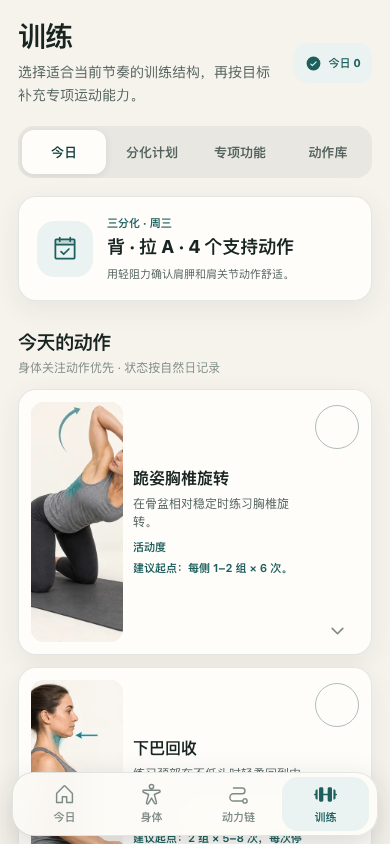
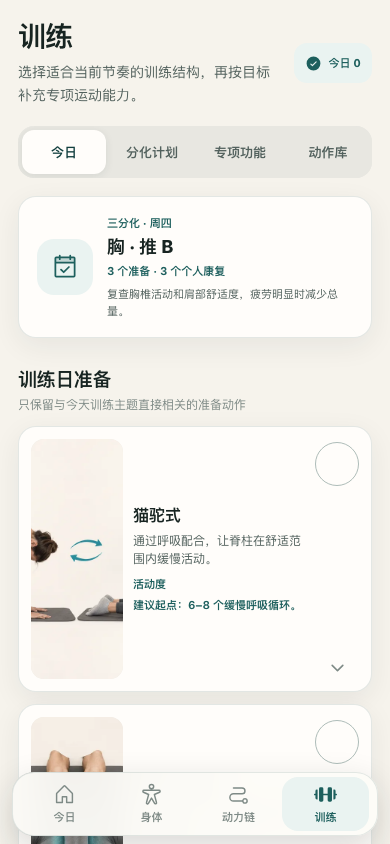
fix: separate training prep from rehab tasks

diff --git a/src/pages/training/training.vue b/src/pages/training/training.vue
@@ -18,7 +18,8 @@
           <view class="summary-icon"><PhCalendarCheck :size="28" weight="duotone" /></view>
           <view class="summary-copy">
             <text class="summary-kicker">{{ selectedSplit.shortName }} · {{ todayDay.day }}</text>
-            <text class="summary-title">{{ todayDay.focus }} · {{ todayExercises.length }} 个支持动作</text>
+            <text class="summary-title">{{ todayDay.focus }}</text>
+            <text class="summary-count">{{ todayActionSummary }}</text>
             <text class="summary-note">{{ todayDay.target }}</text>
           </view>
         </view>
@@ -29,15 +30,27 @@
         </view>
 
         <template v-if="todayDay && !todayDay.isRest">
-          <view class="section-heading"><view><text class="section-title">今天的动作</text><text class="section-note">身体关注动作优先 · 状态按自然日记录</text></view></view>
+          <view class="section-heading"><view><text class="section-title">训练日准备</text><text class="section-note">只保留与今天训练主题直接相关的准备动作</text></view></view>
           <ExerciseCard
-            v-for="exercise in todayExercises"
+            v-for="exercise in todayPreparationExercises"
             :key="exercise.id"
             :exercise="exercise"
             trackable
             :done="completedSet.has(exercise.id)"
             @update:done="toggleExercise(exercise.id, $event)"
           />
+          <template v-if="todayPersonalRehabExercises.length">
+            <view class="section-heading rehab-heading"><view><text class="section-title">个人康复任务</text><text class="section-note">按今天的训练部位筛选 · 每天最多 3 项 · 不计入热身</text></view></view>
+            <ExerciseCard
+              v-for="exercise in todayPersonalRehabExercises"
+              :key="exercise.id"
+              :exercise="exercise"
+              role="个人康复"
+              trackable
+              :done="completedSet.has(exercise.id)"
+              @update:done="toggleExercise(exercise.id, $event)"
+            />
+          </template>
         </template>
       </view>
 
@@ -206,12 +219,12 @@ import { PhBarbell, PhCalendarCheck, PhCheckCircle, PhMagnifyingGlass, PhX } fro
 import AppNav from '../../components/AppNav.vue'
 import ExerciseCard from '../../components/ExerciseCard.vue'
 import {
-  currentSessionExerciseIds,
   db,
   exerciseIdsForPlanDay,
   exercisesForFunctionalModule,
   getExercise,
   selectedTrainingSplit,
+  trainingSessionGroups,
   trainingDayForSplit,
 } from '../../data/index.js'
 import { useWorkspace } from '../../stores/workspace.js'
@@ -253,9 +266,14 @@ const selectedSplit = computed(() => selectedTrainingSplit(selectedSplitId.value
 const todayDay = computed(() => trainingDayForSplit(selectedSplitId.value))
 const orderedDays = computed(() => [1, 2, 3, 4, 5, 6, 0].map((weekday) => selectedSplit.value.days.find((day) => day.weekday === weekday)))
 const selectedDay = computed(() => selectedSplit.value.days.find((day) => day.weekday === selectedWeekday.value) || selectedSplit.value.days[0])
-const todayExercises = computed(() => todayDay.value && !todayDay.value.isRest
-  ? currentSessionExerciseIds(selectedConditionIds.value, todayDay.value).map(getExercise).filter(Boolean)
-  : [])
+const todayGroups = computed(() => trainingSessionGroups(selectedConditionIds.value, todayDay.value))
+const todayPreparationExercises = computed(() => todayGroups.value.preparationIds.map(getExercise).filter(Boolean))
+const todayPersonalRehabExercises = computed(() => todayGroups.value.personalRehabIds.map(getExercise).filter(Boolean))
+const todayActionSummary = computed(() => {
+  const preparationCount = todayPreparationExercises.value.length
+  const rehabCount = todayPersonalRehabExercises.value.length
+  return rehabCount ? `${preparationCount} 个准备 · ${rehabCount} 个个人康复` : `${preparationCount} 个准备动作`
+})
 
 const activeTrack = computed(() => db.functionalTracks.find((track) => track.id === activeTrackId.value) || db.functionalTracks[0])
 const activeModule = computed(() => activeTrack.value.modules.find((module) => module.id === activeModuleId.value) || activeTrack.value.modules[0])
@@ -313,6 +331,7 @@ onLoad((options) => {
 .summary-copy { min-width: 0; }
 .summary-kicker, .overview-kicker { display: block; color: var(--color-teal-700); font-size: 11px; font-weight: 740; }
 .summary-title { display: block; margin-top: 3px; color: var(--color-text); font-size: 18px; font-weight: 780; }
+.summary-count { display: block; margin-top: 4px; color: var(--color-teal-700); font-size: 11px; font-weight: 720; }
 .summary-note { display: block; margin-top: 6px; color: var(--color-text-secondary); font-size: 11px; line-height: 1.55; }
 .rest-state { margin-top: 4px; }
 .split-selector { display: grid; grid-auto-flow: column; grid-auto-columns: minmax(138px, 42%); gap: 9px; overflow-x: auto; padding-bottom: 5px; scrollbar-width: none; }

diff --git a/src/pages/index/index.vue b/src/pages/index/index.vue
@@ -146,12 +146,12 @@ import {
   assetUrl,
   chainEdges,
   chainGroups,
-  currentSessionExerciseIds,
   getCondition,
   getExercise,
   getFunctionalTrack,
   selectedTrainingSplit,
   suggestedSportModule,
+  trainingSessionGroups,
   trainingDayForSplit,
 } from '../../data/index.js'
 import { useWorkspace } from '../../stores/workspace.js'
@@ -172,9 +172,8 @@ const dateLabel = new Intl.DateTimeFormat('zh-CN', { month: 'long', day: 'numeri
 const selectedSplit = computed(() => selectedTrainingSplit(selectedSplitId.value))
 const todayPlan = computed(() => trainingDayForSplit(selectedSplitId.value, now.getDay()))
 const isRecoveryDay = computed(() => !todayPlan.value || todayPlan.value.isRest)
-const sessionExerciseIds = computed(() => !isRecoveryDay.value
-  ? currentSessionExerciseIds(selectedConditionIds.value, todayPlan.value)
-  : [])
+const sessionGroups = computed(() => trainingSessionGroups(selectedConditionIds.value, todayPlan.value))
+const sessionExerciseIds = computed(() => sessionGroups.value.allIds)
 const nextExercise = computed(() => sessionExerciseIds.value.map(getExercise).find((item) => item && !completedSet.value.has(item.id)))
 const completedCount = computed(() => sessionExerciseIds.value.filter((id) => completedSet.value.has(id)).length)
 const progressPercent = computed(() => sessionExerciseIds.value.length ? Math.round((completedCount.value / sessionExerciseIds.value.length) * 100) : 0)
@@ -182,8 +181,14 @@ const progressStyle = computed(() => ({ background: `conic-gradient(var(--color-
 const estimatedMinutes = computed(() => Math.max(3, Math.min(8, Math.ceil((nextExercise.value?.difficulty || 1) * 2.5))))
 const todayPlanTitle = computed(() => todayPlan.value ? `${todayPlan.value.day} · ${todayPlan.value.focus}` : '今日 · 恢复日')
 const todayPlanLabel = computed(() => todayPlan.value && !todayPlan.value.isRest ? selectedSplit.value.name : '轻松活动，留意整体恢复')
-const todayExerciseCount = computed(() => sessionExerciseIds.value.length)
-const todaySessionSubtitle = computed(() => todayPlan.value && !todayPlan.value.isRest ? `${todayExerciseCount.value} 个身体关注与功能支持动作` : todayPlan.value?.target || '轻松活动与恢复提醒')
+const todaySessionSubtitle = computed(() => {
+  if (!todayPlan.value || todayPlan.value.isRest) return todayPlan.value?.target || '轻松活动与恢复提醒'
+  const preparationCount = sessionGroups.value.preparationIds.length
+  const rehabCount = sessionGroups.value.personalRehabIds.length
+  return rehabCount
+    ? `${preparationCount} 个训练日准备 · ${rehabCount} 个个人康复`
+    : `${preparationCount} 个训练日准备动作`
+})
 
 const graphPreview = computed(() => chainGroups(selectedConditionIds.value, chainEdges(selectedConditionIds.value)))
 const chainPreviewGroups = computed(() => graphPreview.value.groups.map((group) => ({

diff --git a/src/data/index.js b/src/data/index.js
@@ -14,7 +14,7 @@ import performanceGuidanceData from '../../content/performance-guidance.json'
 import trainingSplitsData from '../../content/training-splits.json'
 import functionalProgramsData from '../../content/functional-programs.json'
 import { collectSelectedRelationshipEdges, groupRelationshipGraph } from './graph-core.mjs'
-import { resolveSelectedSplit, splitDayForWeekday, sportModuleSuggestion, weekRotationIndex } from './training-core.mjs'
+import { resolveSelectedSplit, splitDayForWeekday, sportModuleSuggestion, trainingDayExerciseGroups, weekRotationIndex } from './training-core.mjs'
 
 const allGuidance = [...exerciseGuidanceData.guidance, ...performanceGuidanceData.guidance]
 const allExercises = [...exercisesData.exercises, ...performanceExercisesData.exercises]
@@ -122,9 +122,13 @@ export function exerciseIdsForPlanDay(day) {
   ])]
 }
 
-/** 当前关注动作优先，并补充当天星期计划；Today 与 Training 共用。 */
-export function currentSessionExerciseIds(conditionIds, day) {
-  return [...new Set([...aggregateExerciseIds(conditionIds), ...exerciseIdsForPlanDay(day)])]
+/** 将当日准备和与训练部位相关的个人康复任务分组；Today 与 Training 共用。 */
+export function trainingSessionGroups(conditionIds, day) {
+  return trainingDayExerciseGroups({
+    conditions: db.conditions,
+    selectedConditionIds: conditionIds,
+    day,
+  })
 }
 
 export function selectedTrainingSplit(id) {

diff --git a/openspec/changes/expand-training-and-chain-library/specs/training-split-templates/spec.md b/openspec/changes/expand-training-and-chain-library/specs/training-split-templates/spec.md
@@ -26,9 +26,15 @@ Each template day SHALL map to conservative preparation and functional-support e
 - **THEN** the application SHALL show the day focus and supporting actions and SHALL NOT present one fixed loading prescription as universally appropriate
 
 ### Requirement: Selected split drives Today
-Today and Training Today SHALL resolve the same date-appropriate schedule from the locally selected split while keeping selected-condition actions first.
+Today and Training Today SHALL resolve the same date-appropriate schedule from the locally selected split. Template preparation SHALL be shown separately from selected-condition rehabilitation work.
 
 #### Scenario: Change split on the current day
 - **WHEN** the user changes the selected split and returns to Today
-- **THEN** both Today surfaces SHALL show the new split day while retaining current-condition actions ahead of template support actions
+- **THEN** both Today surfaces SHALL show the new split day while retaining a separate, bounded personal-rehabilitation group
 
+### Requirement: Relevant and bounded personal rehabilitation
+Training Today SHALL keep template preparation specific to the current training focus and SHALL place selected-condition work in a separately labelled personal-rehabilitation group. Personal rehabilitation SHALL be filtered by upper-body, lower-body, or full-body focus, SHALL exclude preparation duplicates, and SHALL contain no more than three actions.
+
+#### Scenario: Open a chest training day with lower- and upper-body concerns selected
+- **WHEN** the current split day is chest or upper-body focused
+- **THEN** lower-chain actions SHALL NOT appear in training-day preparation or the day's personal-rehabilitation group, upper-body personal actions SHALL be labelled separately, and the personal group SHALL contain at most three actions

diff --git a/openspec/changes/expand-training-and-chain-library/tasks.md b/openspec/changes/expand-training-and-chain-library/tasks.md
@@ -18,7 +18,7 @@
 - [x] 3.1 Replace the fixed plan import with deterministic selected-template and weekday resolution helpers
 - [x] 3.2 Add Split Plans selection, explanation, advantages/trade-offs, recovery guidance, weekly schedule, and day detail
 - [x] 3.3 Keep chest/legs/back selected by default and synchronize Today with the selected split
-- [x] 3.4 Preserve condition-first action ordering and same-day completion when switching templates
+- [x] 3.4 Preserve distinct preparation/personal-rehabilitation groups and same-day completion when switching templates
 
 ## 4. Sport-Specific Functional Training
 
@@ -51,3 +51,10 @@
 - [x] 7.4 Update visual QA evidence and compare the revised Training and Chain views with the selected design direction
 - [x] 7.5 Run strict OpenSpec validation and a two-axis repository-standards/specification review
 - [x] 7.6 Report delivered scope, evidence, limitations, archive status, and deployment status without committing or publishing
+
+## 8. Training-Day Relevance Fix
+
+- [x] 8.1 Add regression tests proving chest days exclude lower-chain concern actions and personal work is capped at three
+- [x] 8.2 Separate template preparation from personal rehabilitation in Today and Training Today
+- [x] 8.3 Filter personal rehabilitation by upper-body, lower-body, or full-body training focus and remove preparation duplicates
+- [x] 8.4 Verify the corrected chest-day browser journey, full test suite, production build, and strict OpenSpec validation

diff --git a/README.md b/README.md
@@ -3,7 +3,7 @@
 面向个人自我管理的运动康复内容工作台。通过「今日 / 身体 / 动力链 / 训练」四个入口，整理关注问题、下一步动作、可能的跨部位关联与训练进度。界面以手机阅读为主，并在桌面端切换为有边界的多栏布局。
 
 - **差异化**：内置「动力链（Kinetic Chain）」——按完整关联分组展示所有选中问题、关系、分支与循环，未关联项单独保留，并按「个人观察 / 资料支持 / 需验证」标注；关联不等于因果或诊断。
-- **训练结构**：提供不分化、二分化、默认胸/腿/背三分化、四分化、五分化五种模板；「今日」与当前模板同步。
+- **训练结构**：提供不分化、二分化、默认胸/腿/背三分化、四分化、五分化五种模板；「今日」与当前模板同步。训练日准备与个人康复分开，个人任务按上肢/下肢/全身主题匹配、去除重复并限制为最多 3 项。
 - **专项功能**：提供跑步、HYROX、健身运动表现三个专区。健身专区以爆发力与力量传递、全身协调与负重移动为主，多方向落地减速为可选补充，不把热身动作当成主体。
 - **技术栈**：uni-app（Vue3）一套代码输出 H5 / 微信小程序 / App。
 - **内容源**：`content/` 下的结构化 JSON（部位 / 身体问题 / 动作指导 / 视频 / 人群 / 计划）。

diff --git a/design-qa.md b/design-qa.md
@@ -27,6 +27,8 @@ Date: 2026-09-09
 - Kinetic-chain nodes reveal their detail immediately below the tapped node on mobile and update the adjacent sticky detail on desktop; all selected relationship groups, branches, cycles and directed edges are retained, while unlinked observations stay in a separate section.
 - Exercise details expand to show setup, cues, side, equipment, regression, progression, compensations, stop conditions, and sources.
 - Today and Training resolve the same applicable session from selected conditions and the current weekday plan.
+- Training-day preparation and personal rehabilitation are separate: personal work is matched to the day's upper/lower/full-body focus, excludes preparation duplicates, and is capped at three actions.
+- Regression journey with all five example concerns on Thursday chest B: 3 preparation actions + 3 upper-body personal actions; knee-to-wall, calf rolling, clamshell, dead bug, bird dog, and side-lying abduction are absent.
 - Five split templates expose audience, trade-offs, recovery guidance, full weekly schedule and per-day support actions; chest / legs / back remains the default.
 - Training uses four clear subviews: Today, Split Plans, Sport-Specific and Exercise Library.
 - Running, HYROX and Fitness each expose three purpose-led modules with duration, frequency, placement and an inclusion reason for every action.

diff --git a/openspec/changes/expand-training-and-chain-library/design.md b/openspec/changes/expand-training-and-chain-library/design.md
@@ -51,7 +51,7 @@ Alternative considered: mutate the v2 payload in place. Rejected because rollbac
 
 ### Resolve split days deterministically
 
-Each template owns a seven-slot schedule containing training focuses or recovery days. Today derives its local weekday slot from the selected template, then prepends deduplicated selected-condition actions. Switching templates changes the plan-derived portion only; completion remains keyed by date and exercise ID.
+Each template owns a seven-slot schedule containing training focuses or recovery days. Today derives its local weekday slot from the selected template, presents template preparation first, then adds at most three deduplicated selected-condition actions matching the day's upper-body, lower-body, or full-body focus. The two groups are labelled separately so rehabilitation work is not mistaken for warm-up. Switching templates changes the plan-derived portion only; completion remains keyed by date and exercise ID.
 
 ### Model modules as purposes over shared actions
 
